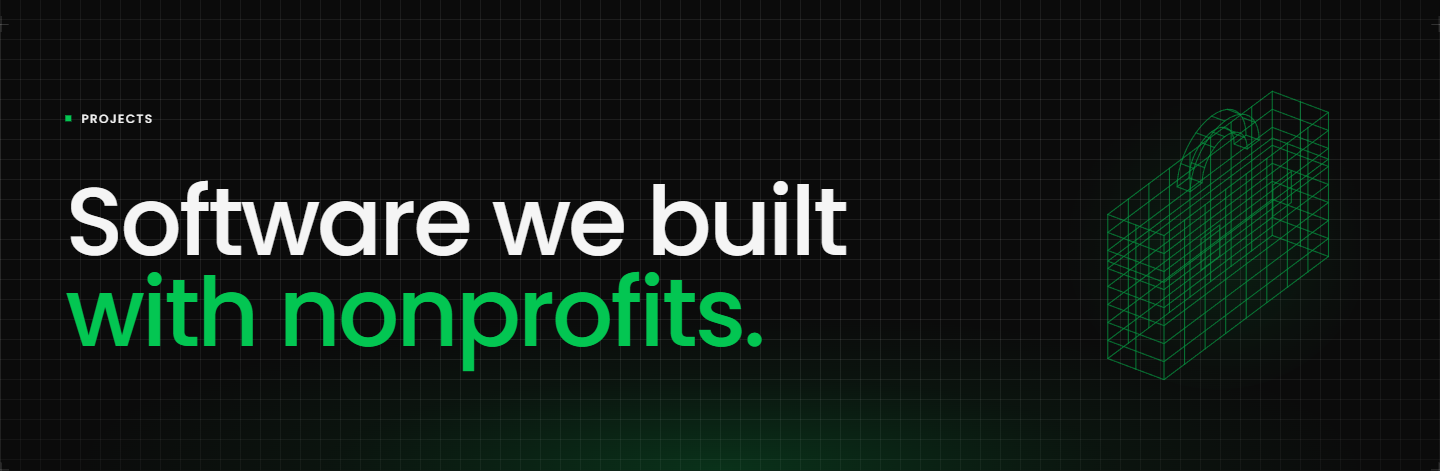
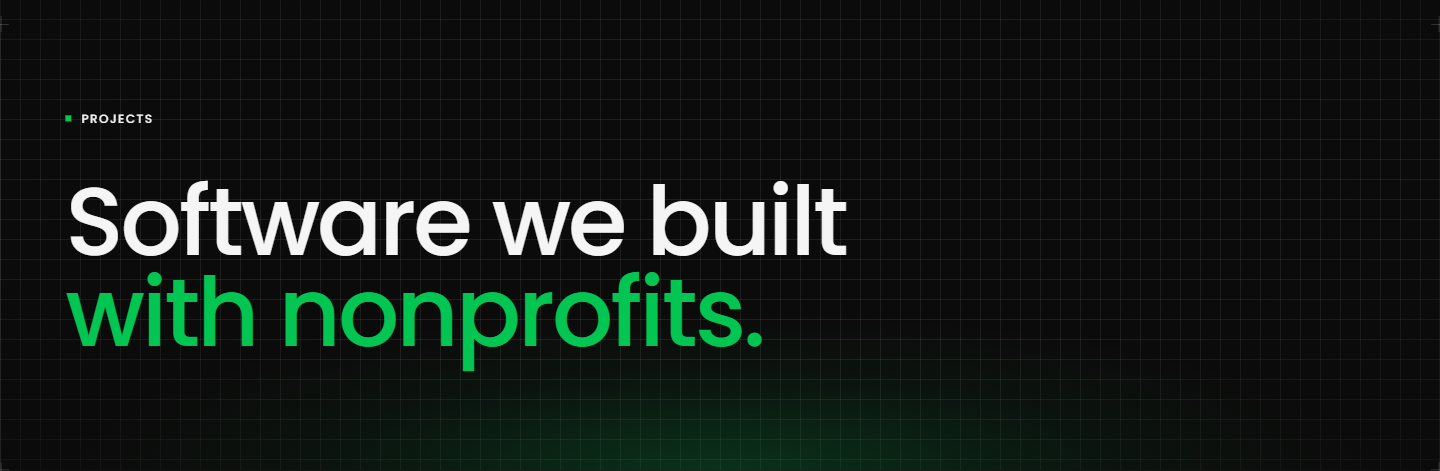
feat(hero): paint the hero grid instead of turning an object in it
Ashton wanted the 3D schematics out and a simple interaction in their
place: hovering lights the pixels behind the cursor and they fade, and
holding the button down paints pixels that are stored locally.

FinalHero now draws the grid, the glow and the copy, and nothing else.
PixelField makes that grid playable on one canvas: cells light and fade
over 700ms behind the pointer, a held drag paints cells that stay, and the
painting is kept per page under htf:hero-pixels:<pathname>, oldest cells
falling off at 4000 and every access guarded.

It listens on the parent section rather than on itself and takes no
pointer events, so the whole hero paints while the copy keeps its links and
its text selection. Touch pointers are ignored, since painting with a
finger would fight the page's own scrolling. Reduced motion lights the cell
under the pointer with no trail and no fade.

The objects are kept, not deleted: HeroObject, Wireframe, heroObjects.ts
and src/lib/wireframe.ts stay unreferenced, the way the other hero variants
do, so bringing one back is a line in FinalHero.

Changed region(s): [[0.75, 0.2081, 0.9375, 0.8025]]

diff --git a/src/components/layout/pageHeroes/PixelField.tsx b/src/components/layout/pageHeroes/PixelField.tsx
@@ -1,0 +1,227 @@
+"use client";
+
+import { useReducedMotion } from "framer-motion";
+import { usePathname } from "next/navigation";
+import { useEffect, useRef } from "react";
+import { cn } from "@/lib/utils";
+
+/**
+ * The hero's grid, made playable: the cells behind the pointer light up and fade out behind it,
+ * and holding the button down paints cells that stay, kept per page in localStorage.
+ *
+ * One canvas rather than a few thousand elements, lined up with the CSS grid the hero already
+ * draws (`--px` is the cell, offset a pixel up like the background). It listens on its parent
+ * section, not on itself, so the copy and its links keep every pointer event while the whole
+ * hero still paints — the canvas never takes the pointer. Decoration only: no keyboard path,
+ * `aria-hidden`, and nothing here is content.
+ */
+
+const FADE_MS = 700;
+/** Painted cells kept per page; the oldest fall off the end. */
+const MAX_PAINTED = 4000;
+const STORAGE_PREFIX = "htf:hero-pixels:";
+/** Light every cell along the pointer's path, so a fast sweep does not leave gaps. */
+const SAMPLE_FRACTION = 0.4;
+
+type Cell = `${number},${number}`;
+
+export function PixelField({ className }: { className?: string }) {
+  const canvasRef = useRef<HTMLCanvasElement>(null);
+  const reduce = useReducedMotion();
+  const pathname = usePathname() ?? "/";
+
+  useEffect(() => {
+    const canvas = canvasRef.current;
+    const section = canvas?.parentElement;
+    const ctx = canvas?.getContext("2d");
+    if (!canvas || !section || !ctx) return;
+
+    const storageKey = `${STORAGE_PREFIX}${pathname}`;
+    const painted = new Set<Cell>();
+    /** Cell -> the time it was lit, for the fade. */
+    const lit = new Map<Cell, number>();
+    let cell = 12;
+    let green = "#03C652";
+    let width = 0;
+    let height = 0;
+    let painting = false;
+    let last: { x: number; y: number } | null = null;
+    let frame = 0;
+    let saveTimer = 0;
+
+    try {
+      const saved: unknown = JSON.parse(localStorage.getItem(storageKey) ?? "[]");
+      if (Array.isArray(saved)) {
+        for (const key of saved) if (typeof key === "string") painted.add(key as Cell);
+      }
+    } catch {
+      // a blocked or corrupt store just means an empty canvas
+    }
+
+    const save = () => {
+      window.clearTimeout(saveTimer);
+      saveTimer = window.setTimeout(() => {
+        try {
+          localStorage.setItem(storageKey, JSON.stringify([...painted]));
+        } catch {
+          // out of quota or blocked: the painting simply does not outlive the visit
+        }
+      }, 400);
+    };
+
+    const measure = () => {
+      const rect = section.getBoundingClientRect();
+      const styles = getComputedStyle(section);
+      const dpr = Math.min(window.devicePixelRatio || 1, 2);
+      width = rect.width;
+      height = rect.height;
+      canvas.width = Math.round(width * dpr);
+      canvas.height = Math.round(height * dpr);
+      canvas.style.width = `${width}px`;
+      canvas.style.height = `${height}px`;
+      ctx.setTransform(dpr, 0, 0, dpr, 0, 0);
+      cell = Number.parseFloat(styles.getPropertyValue("--px")) || 12;
+      green = styles.getPropertyValue("--green").trim() || green;
+    };
+
+    /** The cell under a point in the section's box; the grid sits a pixel high (see FinalHero). */
+    const cellAt = (x: number, y: number): Cell =>
+      `${Math.floor(x / cell)},${Math.floor((y + 1) / cell)}`;
+
+    const fill = (key: Cell, alpha: number) => {
+      const [col = 0, row = 0] = key.split(",").map(Number);
+      ctx.globalAlpha = alpha;
+      ctx.fillRect(col * cell, row * cell - 1, cell - 1, cell - 1);
+    };
+
+    const render = (now: number) => {
+      ctx.clearRect(0, 0, width, height);
+      ctx.fillStyle = green;
+      for (const key of painted) fill(key, 0.55);
+      for (const [key, at] of lit) {
+        if (reduce) {
+          fill(key, 0.7);
+          continue;
+        }
+        const t = (now - at) / FADE_MS;
+        if (t >= 1) {
+          lit.delete(key);
+          continue;
+        }
+        fill(key, (1 - t) * 0.8);
+      }
+      ctx.globalAlpha = 1;
+    };
+
+    const tick = (now: number) => {
+      render(now);
+      // under reduced motion the lit cell does not decay, so there is nothing to animate
+      frame = !reduce && lit.size > 0 ? requestAnimationFrame(tick) : 0;
+    };
+
+    const invalidate = () => {
+      if (frame) return;
+      frame = requestAnimationFrame(tick);
+    };
+
+    /** Light (or paint) every cell between the last point and this one. */
+    const trace = (x: number, y: number) => {
+      const from = last ?? { x, y };
+      const distance = Math.hypot(x - from.x, y - from.y);
+      const steps = Math.max(1, Math.ceil(distance / (cell * SAMPLE_FRACTION)));
+      for (let i = 1; i <= steps; i += 1) {
+        const t = i / steps;
+        const key = cellAt(from.x + (x - from.x) * t, from.y + (y - from.y) * t);
+        if (painting) {
+          painted.add(key);
+          if (painted.size > MAX_PAINTED) {
+            const oldest = painted.values().next();
+            if (!oldest.done) painted.delete(oldest.value);
+          }
+          lit.delete(key);
+        } else {
+          if (reduce) lit.clear();
+          lit.set(key, performance.now());
+        }
+      }
+      last = { x, y };
+      invalidate();
+    };
+
+    /** Mice and pens only: on a touch screen this would fight the page's own scrolling. */
+    const fromPointer = (event: PointerEvent) => {
+      if (event.pointerType === "touch") return null;
+      const rect = section.getBoundingClientRect();
+      return { x: event.clientX - rect.left, y: event.clientY - rect.top };
+    };
+
+    const onMove = (event: PointerEvent) => {
+      const point = fromPointer(event);
+      if (!point) return;
+      trace(point.x, point.y);
+    };
+
+    const onDown = (event: PointerEvent) => {
+      const point = fromPointer(event);
+      if (!point || event.button !== 0) return;
+      painting = true;
+      last = point;
+      // only when the press lands on the hero itself, so selecting the copy still works
+      if (event.target === section || event.target === canvas) event.preventDefault();
+      trace(point.x, point.y);
+      save();
+    };
+
+    const onUp = () => {
+      if (!painting) return;
+      painting = false;
+      save();
+    };
+
+    const onLeave = () => {
+      painting = false;
+      last = null;
+      if (reduce) {
+        lit.clear();
+        invalidate();
+      }
+      save();
+    };
+
+    measure();
+    invalidate();
+
+    const observer = new ResizeObserver(() => {
+      measure();
+      invalidate();
+    });
+    observer.observe(section);
+    section.addEventListener("pointermove", onMove);
+    section.addEventListener("pointerdown", onDown);
+    section.addEventListener("pointerleave", onLeave);
+    window.addEventListener("pointerup", onUp);
+
+    return () => {
+      observer.disconnect();
+      section.removeEventListener("pointermove", onMove);
+      section.removeEventListener("pointerdown", onDown);
+      section.removeEventListener("pointerleave", onLeave);
+      window.removeEventListener("pointerup", onUp);
+      if (frame) cancelAnimationFrame(frame);
+      window.clearTimeout(saveTimer);
+      try {
+        localStorage.setItem(storageKey, JSON.stringify([...painted]));
+      } catch {
+        // as above
+      }
+    };
+  }, [pathname, reduce]);
+
+  return (
+    <canvas
+      ref={canvasRef}
+      aria-hidden="true"
+      className={cn("pointer-events-none absolute inset-0 size-full", className)}
+    />
+  );
+}

diff --git a/src/components/layout/pageHeroes/FinalHero.tsx b/src/components/layout/pageHeroes/FinalHero.tsx
@@ -1,17 +1,18 @@
-import { HeroObject } from "@/components/layout/pageHeroes/HeroObject";
 import {
   PageHeroContent,
   PageHeroGlow,
   PageHeroSection,
 } from "@/components/layout/pageHeroes/PageHeroShell";
+import { PixelField } from "@/components/layout/pageHeroes/PixelField";
 import type { PageHeroProps } from "@/components/layout/pageHeroes/types";
 
 /**
  * "Final", the shipped inner-page hero: the Pixels hero's fine square grid and glow around the
- * copy, with the page's own wireframe object on the right (pageHeroes/HeroObject: a briefcase,
- * a rocket, a heart, a paper aeroplane, and the globe itself on About), centred in the hero on
- * the content container's right edge. It turns slowly and stands still under reduced motion.
- * Decoration only.
+ * copy, and nothing else drawn in it — the grid itself is the graphic, and `PixelField` makes it
+ * playable (cells light behind the pointer and fade; holding the button paints cells that stay).
+ *
+ * It carried a turning wireframe object per page until 2026-09-15; `HeroObject`, `Wireframe` and
+ * `heroObjects.ts` are still here, unreferenced, like the other hero variants.
  */
 export function FinalHero(props: PageHeroProps) {
   return (
@@ -28,14 +29,7 @@ export function FinalHero(props: PageHeroProps) {
           backgroundPosition: "0 -1px",
         }}
       />
-      {/* the page's wireframe object, fully in frame, its right side on the content container's right edge */}
-      <div aria-hidden="true" className="pointer-events-none absolute inset-0">
-        <div className="container-max flex h-full items-center justify-end container-x">
-          <div className="aspect-square w-1/2 max-w-full opacity-70 md:h-2/3 md:w-auto">
-            <HeroObject className="size-full" />
-          </div>
-        </div>
-      </div>
+      <PixelField />
       <PageHeroContent {...props} stagger={false} className="z-10" />
     </PageHeroSection>
   );

diff --git a/docs/PROGRESS.md b/docs/PROGRESS.md
@@ -63,6 +63,7 @@ this file. Checklist items follow the plan's phases (PLAN.md §6, §9).
 - [x] Session 15x: real photos across home and Students (hero, awards carousel that rotates, What we do panels, How we work, What you'll get), project cards aligned and ordered by title length, Instagram grid off /about until the feed is linked, home tab title is the name alone
 - [x] Session 15y: home intro — black screen, the wordmark draws in the centre and flies into the header logo while the page fades in (once per tab session)
 - [x] Session 15n: the /apply frame is back-proof — two heights instead of five, after checking that nothing cross-origin can say which section the form is showing
+- [x] Session 15z6: the inner-page hero grid made playable (cells light and fade behind the pointer, holding the button paints cells kept per page in localStorage); no object drawn in the hero any more
 - [x] Session 15z5: one turning object per inner-page hero (briefcase on Projects, the globe kept on About, rocket on Students, heart on Nonprofits, paper aeroplane on Contact), all built and projected in the globe's language through `src/lib/wireframe.ts`
 - [x] Session 15z4: page transitions reworked — one continuous hand-off (the old page lifts away as the new one rises in, the footer and background on the same clock, about a second end to end) and a green navigation line along the top edge while a page is still on its way
 
@@ -87,7 +88,50 @@ this file. Checklist items follow the plan's phases (PLAN.md §6, §9).
 
 - [ ] Blog (MDX), nonprofit application reuse, brand-font swap (Cunia + Josefin Sans)
 
-## Session 15z5 — 2026-09-15 (one object per inner-page hero)
+## Session 15z6 — 2026-09-15 (the hero grid, made playable)
+
+Ashton, after seeing the meshed objects: "undo, keep them stored but I dont want any of the 3d
+schematics anymore. Instead I just want a simple interaction on the hero, hovering around on the
+hero will light up the pixels behind the cursor and fade. Clicking/holding down mouse while
+moving the cursor around should paint the pixel, these 'painted' pixels should be locally
+stored."
+
+**Built:** `pageHeroes/PixelField.tsx`, and `FinalHero` now draws the grid, the glow, the copy
+and nothing else. The grid it already had is the graphic; the field makes it playable. Cells
+light at 0.8 and fade out over 700ms behind the pointer, holding the button paints cells that
+stay at 0.55, and the painting is kept per page under `htf:hero-pixels:<pathname>` (a debounced
+write, the oldest of 4000 cells falling off the end, every access in a try / catch so a blocked
+or corrupt store just means an empty canvas).
+
+**Decisions worth keeping:**
+
+- One canvas, not a few thousand elements, aligned to the CSS grid by reading `--px` off the
+  section (and the same 1px offset the background uses), redrawn on a rAF loop that only runs
+  while something is fading.
+- It listens on the **parent section, not on itself**, and the canvas is `pointer-events-none`:
+  the whole hero paints, including over the copy, while every link, button and text selection
+  in the hero keeps its events. A press that lands on the hero itself calls `preventDefault` so
+  a drag does not select; a press on the copy does not, so selecting the headline still works.
+- `pointerType: "touch"` is ignored outright — painting with a finger would fight the page's own
+  scrolling.
+- Reduced motion lights the cell under the pointer and clears it on leave, with no trail and no
+  fade (and no rAF loop left running).
+- The objects are kept, not deleted: `HeroObject`, `Wireframe`, `heroObjects.ts` and
+  `src/lib/wireframe.ts` stay unreferenced, the way the other hero variants do.
+
+**Checked:** typecheck, lint, build clean; `pnpm a11y` 0 violations (the canvas is `aria-hidden`
+decoration). Driven with real pointer events in Playwright: the hover trail paints the canvas
+green one frame after a move, a held drag stores 25 cells under `htf:hero-pixels:/projects`, and
+the stroke is still there after a reload. `docs/screenshots/session-15z5/hero-projects-1440.png`
+is the clean hero, `pixel-field-trail-1440.png` shows a fading trail beside a painted stroke.
+
+**Notes for Ashton:** there is no clear button — clearing means clearing the site's localStorage.
+Say the word and it can be a keypress, a double-click on the hero, or an automatic decay. The
+home page is untouched (its hero is the photo, with no grid to paint).
+
+**Next session starts with:** Ashton's hands on the hero in a browser.
+
+## Session 15z5 — 2026-09-15 (one object per inner-page hero, later taken out)
 
 Ashton: "For the inner page heroes, I want each different page that uses that inner page hero
 to have a different item spinning… same style as the globe, with the outline/schematic kind of
@@ -153,7 +197,8 @@ match by construction — if one still looks small next to the globe, the knob i
 depth goes edge-on and vanishes twice a turn, which is why the aeroplane has a keel and is
 nearly as broad as it is long.
 
-**Next session starts with:** Ashton's look at the four objects in the browser.
+**How it ended:** Ashton dropped the objects the same evening — see Session 15z6. The code is
+kept and unreferenced, so bringing one back is a line in `FinalHero`.
 
 ## Session 15z4 — 2026-09-15 (page transitions reworked)
 
